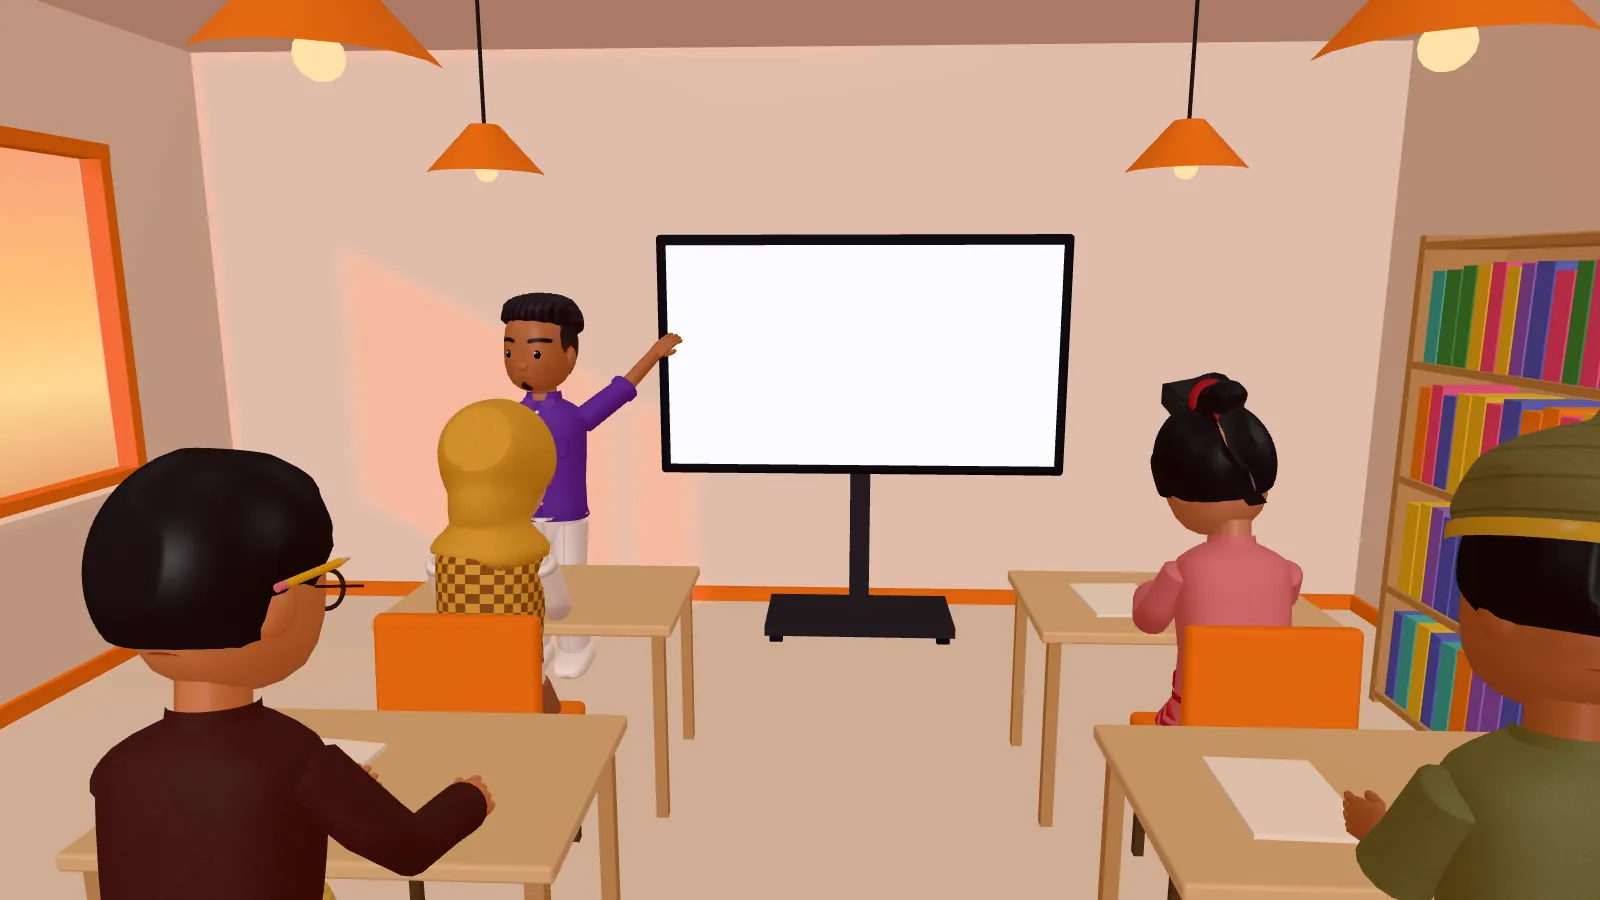
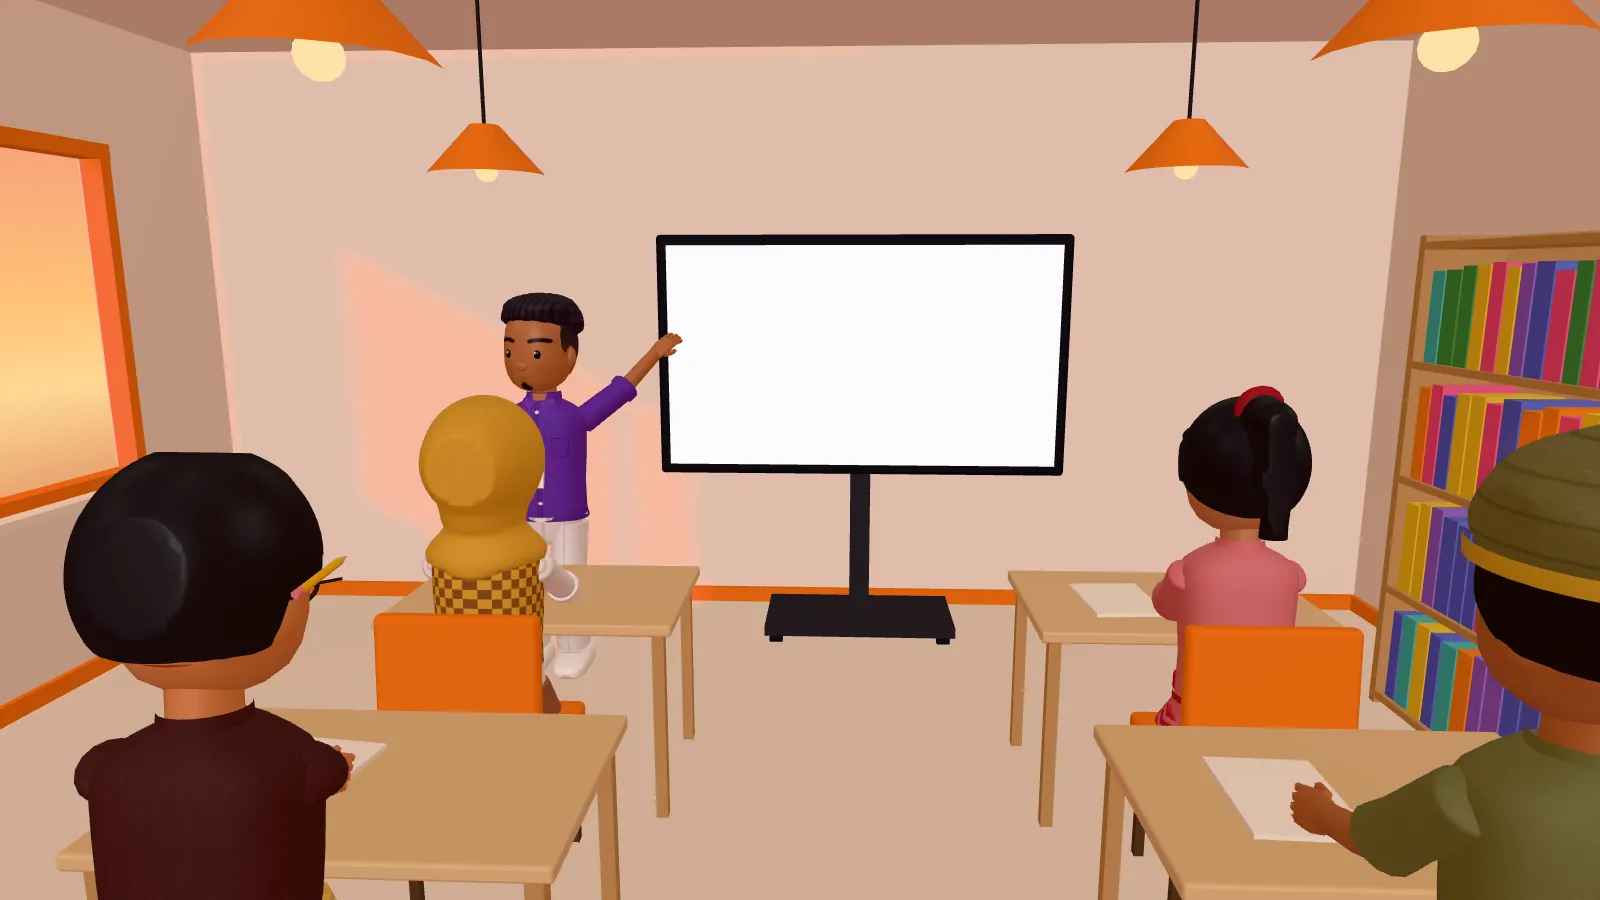
Seat the class listening and bring dusk to COMPANY's front room (tahap 9 leftovers)
The staff in the classroom now sit upright facing the TV, hands on
their desks, Bayu writing and Nadia with her hands folded, instead of
their worn-out K2 poses. At K13 the wooden back door shuts again once
the camera is back over the counter (it showed the sky through the
undrawn classroom), the lamps cast warm pools on the floor as dusk
falls, and the window's patches of light turn to low orange sun at the
end of the day and fade at dusk instead of staying morning white. The
K12 and K13 stills are rendered again.

Claude-Session: https://claude.ai/code/session_01QgwjwUxL1GmVAUrJo58BoZ

diff --git a/site/world/sets/companyFront.ts b/site/world/sets/companyFront.ts
@@ -3,6 +3,7 @@
 // solves; the blend is quantised to LAYOUT_STEPS so each step can ship its own baked AO.
 // Ported from prototype/k0-k2/src/scene.js ("INTERIOR").
 import * as THREE from "three";
+import { mergeGeometries } from "three/addons/utils/BufferGeometryUtils.js";
 import { aoPlane, type AoTarget } from "../core/ao";
 import { Batch, C, G, lerp, mtx, rectPath, rng, type Kit, type Vec3 } from "../core/kit";
 import { DATA } from "../takes/home/data";
@@ -521,7 +522,8 @@ export function createCompanyFront(kit: Kit) {
       }
     }
     // pendant lamps (glow + a warm point light each)
-    const lampLights: THREE.PointLight[] = [];
+    const lampLights: THREE.PointLight[] = [],
+      poolAt: [number, number][] = [];
     for (const i of [1, 2, 3]) {
       const x = P["lx" + i],
         y = P["ly" + i],
@@ -542,6 +544,7 @@ export function createCompanyFront(kit: Kit) {
         mtx([x, y + 0.01, z], [Math.PI / 2, 0, 0]),
         { occ: false, shadow: false },
       );
+      poolAt.push([x, z]);
       const pl = new THREE.PointLight("#ffd7a3", 2.0, 6, 1.8);
       pl.position.set(x, y - 0.15, z);
       grp.add(pl);
@@ -573,6 +576,46 @@ export function createCompanyFront(kit: Kit) {
       [P.izB + 4.2, 0.8],
     ])
       patch(w, 2.2, mtx([P.ixL + 0.004, 1.35, z], [0, Math.PI / 2, 0]));
+    // at the end of the day (tahap 9, video 24–33 s) a warm pool of light on the floor under each lamp, stronger as
+    // dusk falls; additive quads (no bloom), off by day (setEvening)
+    const poolTex = canvasTex(128, 128, (g, w) => {
+      const r = g.createRadialGradient(w / 2, w / 2, 0, w / 2, w / 2, w / 2);
+      r.addColorStop(0, "rgba(255,168,84,1)");
+      r.addColorStop(0.35, "rgba(255,140,64,.55)");
+      r.addColorStop(1, "rgba(255,120,50,0)");
+      g.fillStyle = r;
+      g.fillRect(0, 0, w, w);
+    });
+    const poolMat = new THREE.MeshBasicMaterial({
+      map: poolTex,
+      transparent: true,
+      opacity: 0,
+      blending: THREE.AdditiveBlending,
+      depthWrite: false,
+      toneMapped: true,
+    });
+    const pools = new THREE.Mesh(
+      mergeGeometries(
+        poolAt.map(([x, z]) => new THREE.PlaneGeometry(2.6, 2.6).rotateX(-Math.PI / 2).translate(x, 0.006, z)),
+      ),
+      poolMat,
+    );
+    pools.renderOrder = 1;
+    pools.visible = false;
+    grp.add(pools);
+    /**
+     * End of the day at COMPANY (tahap 9): the window's patches of light turn to low orange sun (video 25 s), `sun` 0 …
+     * 1, gone at dusk; the lamps' pools on, `pool` 0 … 1. Not evening: the morning's patches as before.
+     */
+    const dayPatch = patchMat.color.clone(),
+      evePatch = new THREE.Color("#ffab5e");
+    const setEvening = (evening: boolean, pool: number, sun: number) => {
+      patchMat.color.copy(evening ? evePatch : dayPatch);
+      patchMat.opacity = evening ? 0.32 * sun : 0.15;
+      patchMat.visible = !evening || sun > 0.01;
+      poolMat.opacity = pool;
+      pools.visible = evening && pool > 0.01;
+    };
     // yellow mat just inside the door
     B.add(
       G.rbox(1.5, 0.012, 0.85, 0.006),
@@ -613,7 +656,7 @@ export function createCompanyFront(kit: Kit) {
       ).add(grp.position),
       rotY: 0,
     };
-    return { group: grp, batch: B, lampLights, step, spots, backDoor };
+    return { group: grp, batch: B, lampLights, step, spots, backDoor, setEvening };
   };
 }
 export type CompanyFront = ReturnType<ReturnType<typeof createCompanyFront>>;

diff --git a/site/world/index.ts b/site/world/index.ts
@@ -1242,6 +1242,9 @@ export async function mount(host: HTMLElement, opts: WorldOptions = {}) {
     // reach, does not drop at once when the room is let go)
     const lampsOut = atCompany ? smoothstep(B15.exit.s + 0.36 * B15.exit.len, B15.exit.s + 0.53 * B15.exit.len, xs) : 0;
     lamps.forEach((l) => (l.intensity = roomHidden || !room ? 0 : 2.0 * (1 - close) * (1 - lampsOut)));
+    // tahap 9: at COMPANY at the end of the day the window's patches are low orange sun until dusk, and the lamps
+    // cast warm pools, stronger at dusk (video 24–33 s), going out with the lamps on the way out
+    room?.setEvening(atCompany, atCompany ? (0.4 + 0.6 * dusk) * (1 - lampsOut) : 0, 1 - dusk);
     // in the lobby the first lamp light is the late sun through the meeting room's window (K8, video: the room warm
     // and golden from its left); the room is let go out here, so its lights are free (setRoom sets them again)
     if (xs >= LOBBY_START && !room) {
@@ -1427,14 +1430,18 @@ export async function mount(host: HTMLElement, opts: WorldOptions = {}) {
       crewInClass = false;
       shadowDue = true;
     }
+    // (drawn until the wooden door has shut behind the camera on its way out, below)
     const classShown =
-      atCompany && xs > B12.into.s + (INTO.backDoor - 0.12) * B12.into.len && xs < B12.out.s + 0.45 * B12.out.len;
+      atCompany && xs > B12.into.s + (INTO.backDoor - 0.12) * B12.into.len && xs < B12.out.s + 0.6 * B12.out.len;
     if (classroom) classroom.group.visible = classroom.group.matrixWorldAutoUpdate = classShown;
     if (holos) holos.group.visible = atCompany && !hide;
-    // the wooden back door swings open into the room as the camera nears it, and stays open (video 28–33 s)
+    // the wooden back door swings open into the room as the camera nears it, and shuts again once the camera has
+    // backed out of the classroom and over the counter (video 33 s: K13 with the door shut)
     if (room) {
       const open = atCompany
-        ? -1.3 * smoothstep(B12.into.s + 0.72 * B12.into.len, B12.into.s + 0.84 * B12.into.len, xs)
+        ? -1.3 *
+          smoothstep(B12.into.s + 0.72 * B12.into.len, B12.into.s + 0.84 * B12.into.len, xs) *
+          (1 - smoothstep(B12.out.s + 0.42 * B12.out.len, B12.out.s + 0.58 * B12.out.len, xs))
         : 0;
       if (room.backDoor.rotation.y !== open) {
         room.backDoor.rotation.y = open;
@@ -1442,7 +1449,7 @@ export async function mount(host: HTMLElement, opts: WorldOptions = {}) {
         shadowDue = true;
       }
     }
-    // the staff sit in the classroom, at the desks facing the TV, in their seated K2 poses; back at their own desks
+    // the staff sit in the classroom, at the desks facing the TV, listening; back at their own desks
     // when the visitor scrolls back up
     if (castMod && room) {
       if (atCompany && !crewInClass) {
@@ -1453,7 +1460,8 @@ export async function mount(host: HTMLElement, opts: WorldOptions = {}) {
           m.mesh.position.set(seat.x, 0, seat.z);
           m.mesh.rotation.set(0, seat.rotY, 0);
           m.mesh.updateMatrixWorld(true);
-          castMod.applyPose(m, castMod.K2_POSES[m.name] as Pose);
+          // (listening: upright, hands on the desk, heads to the TV; video 29–31 s)
+          castMod.applyPose(m, castMod.CLASS_POSES[m.name] as Pose);
           m.springs?.reset(1);
         }
         crewInClass = true;

diff --git a/site/world/cast/poses.ts b/site/world/cast/poses.ts
@@ -77,6 +77,53 @@ export const K2_POSES: Record<string, Pose> = {
 };
 
 /**
+ * Poses of the staff in COMPANY's classroom (tahap 9, the team's continuation video 29–31 s): seated upright at the
+ * small desks facing the TV, heads level toward it, hands resting on the desk by the notebook; Bayu writing in his,
+ * Nadia's hands folded. Attentive, a small smile (seen from behind and from the class's back: the posture reads,
+ * not the face). Same seat as K2 (the classroom's desks are the front room's height, sets/classLayout).
+ */
+export const CLASS_POSES: Record<string, Pose> = {
+  sinta: {
+    seat: SEAT,
+    spine: [0.05, 0, 0],
+    head: [-0.04, 0, 0.04],
+    L: { at: [0.16, 0.79, 0.4], fingers: [-0.2, -0.4, 1] },
+    R: { at: [-0.12, 0.79, 0.4], fingers: [0.2, -0.4, 1] },
+    face: { browTilt: -0.05, smile: 0.25 },
+    lids: 0,
+  },
+  bayu: {
+    seat: SEAT,
+    spine: [0.1, 0, 0],
+    head: [0.1, 0.05, 0],
+    // the right hand writing on the notebook (left of him on the desk), the left holding its corner
+    R: { at: [0.06, 0.79, 0.46], fingers: [0.1, -0.6, 1] },
+    L: { at: [0.27, 0.79, 0.4], fingers: [-0.1, -0.5, 1] },
+    face: { browTilt: -0.05, smile: 0.15 },
+    lids: 0.1,
+  },
+  nadia: {
+    seat: SEAT,
+    spine: [0.06, 0, 0],
+    head: [-0.03, 0, -0.05],
+    // hands folded on the desk's front edge
+    L: { at: [0.05, 0.8, 0.36], fingers: [-1, -0.2, 0.4] },
+    R: { at: [-0.05, 0.8, 0.38], fingers: [1, -0.2, 0.4] },
+    face: { browTilt: -0.05, smile: 0.3 },
+    lids: 0,
+  },
+  fajar: {
+    seat: SEAT,
+    spine: [0.04, 0, 0],
+    head: [-0.05, 0, 0],
+    L: { at: [0.18, 0.79, 0.38], fingers: [0, -0.4, 1] },
+    R: { at: [-0.16, 0.79, 0.36], fingers: [0, -0.4, 1] },
+    face: { browTilt: -0.05, smile: 0.25 },
+    lids: 0,
+  },
+};
+
+/**
  * Applies a pose to a member standing in its spot (mesh position and rotation already set). The face is painted
  * only when asked (it redraws the atlas, too slow for every frame of an action).
  */

diff --git a/site/world/cast/roster.ts b/site/world/cast/roster.ts
@@ -10,6 +10,6 @@ export const CAST = { heru: HERU_SPEC, dewi: DEWI, sinta: SINTA, bayu: BAYU, nad
 export type CastName = keyof typeof CAST;
 
 export { buildMember, buildMemberSliced } from "./member";
-export { applyPose, K2_POSES } from "./poses";
+export { applyPose, CLASS_POSES, K2_POSES } from "./poses";
 export { act, createPhone, createSweat, createThought, lookYaw } from "./acts";
 export { buildCloseHands, type CloseHands } from "./closeHand";

diff --git a/PLAN.md b/PLAN.md
@@ -2149,3 +2149,15 @@ Detail di **[PLAN-SOLUSI.md](PLAN-SOLUSI.md)**: sumber v1, arsitektur etalase, d
   - `issue4.mjs` (server produksi port 3300): panjang take 36,3 / 37,45, copy K3/K4 dan tab binder lulus; berhenti di cek "2 dtk/layar mengikuti scroll" (lag 0,40, harus menetap < 1 dtk) karena render SwiftShader ±5 dtk per frame. `issue4-loading.mjs`: 12 cek lulus (fallback, kanvas dilepas, tanpa error), berhenti di batas 30 dtk menunggu world termuat (SwiftShader). Keduanya perlu dijalankan di laptop dengan GPU.
 - **Belum:** tes HP fisik (Android murah, FPS); `issue4*.mjs` di laptop; ruang depan K13 masih hangat (tahap 9); pose mendengarkan staf (tahap 9); review user untuk tahap 8–10.
 
+### 2026-11-14 (sisa tahap 9: pose kelas dan K13 senja)
+
+- Atas permintaan user ("Rapikan dulu dua sisa tahap 9").
+- **Pose mendengarkan** (`cast/poses.ts` `CLASS_POSES`, dipakai `world/index.ts` saat staf pindah ke kelas): duduk tegak menghadap TV, kepala rata ke arah layar, tangan di meja dekat buku catatan; Bayu menulis di bukunya, tangan Nadia terlipat; senyum kecil. Sebelumnya pose kerja K2 (Sinta memegang HP tanpa HP, Fajar menggaruk kepala, Nadia bertopang dagu). Kembali ke pose K2 saat scroll naik keluar COMPANY (seperti sebelumnya).
+- **K13 senja** (video 33 dtk):
+  - pintu kayu belakang menutup lagi setelah kamera mundur keluar kelas dan melewati konter (42–58% gerak K12 → K13); kelas digambar sampai 60%, setelah pintu tertutup. Sebelumnya pintu tetap terbuka dan menampilkan langit sore lewat kelas yang sudah tidak digambar;
+  - genangan cahaya oranye di lantai di bawah tiap lampu gantung (quad additive, `companyFront` `setEvening`), 40% sore, penuh saat senja, padam bersama lampu saat kamera keluar (tahap 10);
+  - bercak cahaya jendela di lantai dan dinding: tetap putih pagi di beat 1–5; di COMPANY sore jadi jingga matahari rendah dan memudar menjelang senja (sebelumnya bercak pagi tetap tampil saat senja).
+- Still K12, K13 PC/HP dirender ulang.
+- **Dicek** (render hanya di chat): K12, K13 dan gerak keluar PC/HP berdampingan dengan video 25, 30, 33 dtk; K2.2 siang tidak berubah; anggaran K11 → K15 (render langsung tiap 0,05 layar): PC terberat 110 / 136 rb, HP 108 / 139 rb (jeda K11, sama dengan tahap 9); `tsc --noEmit`, ESLint, Prettier.
+- **Belum:** ruang depan sore (video 25 dtk) masih kurang jingga dan berkas matahari di lantai tidak masuk frame kamera masuk; dinding K13 sedikit lebih ungu dari video.
+
